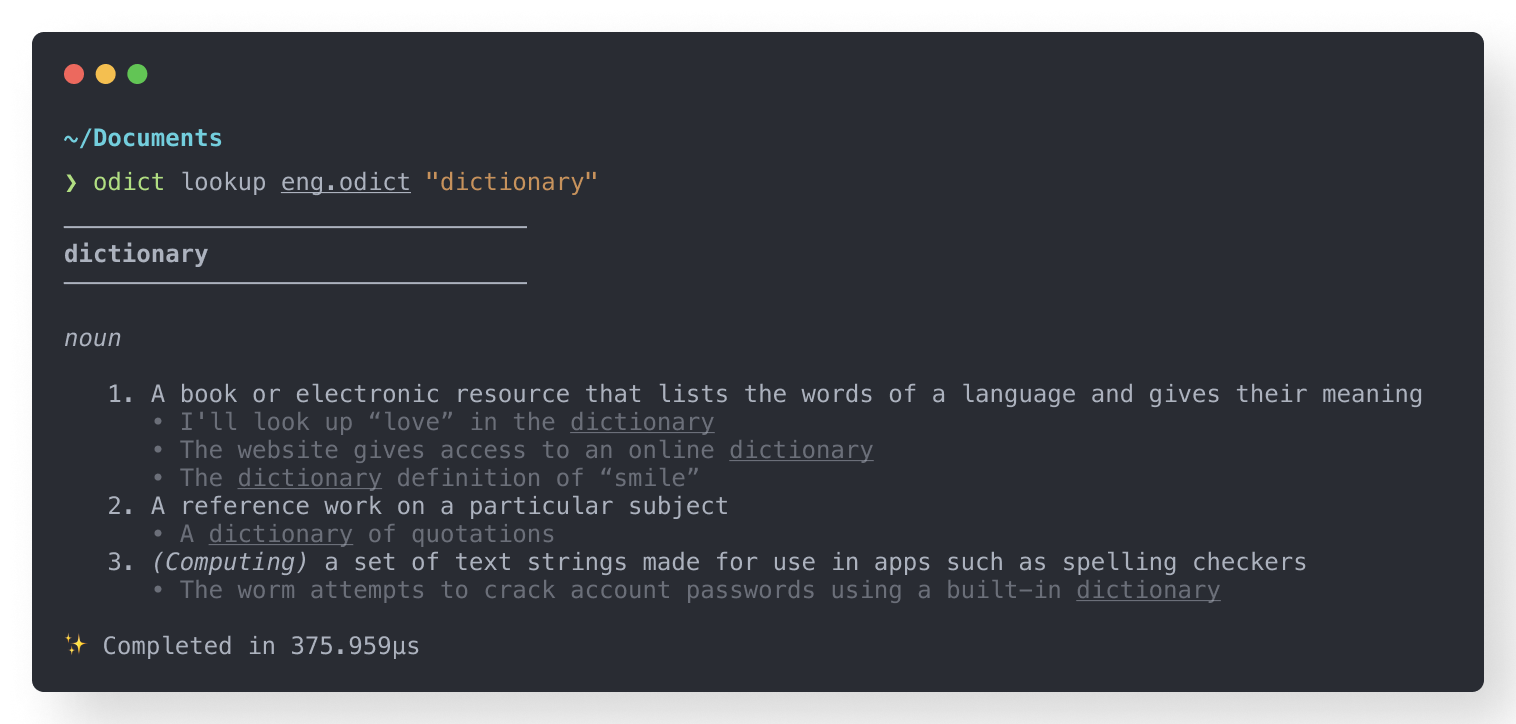
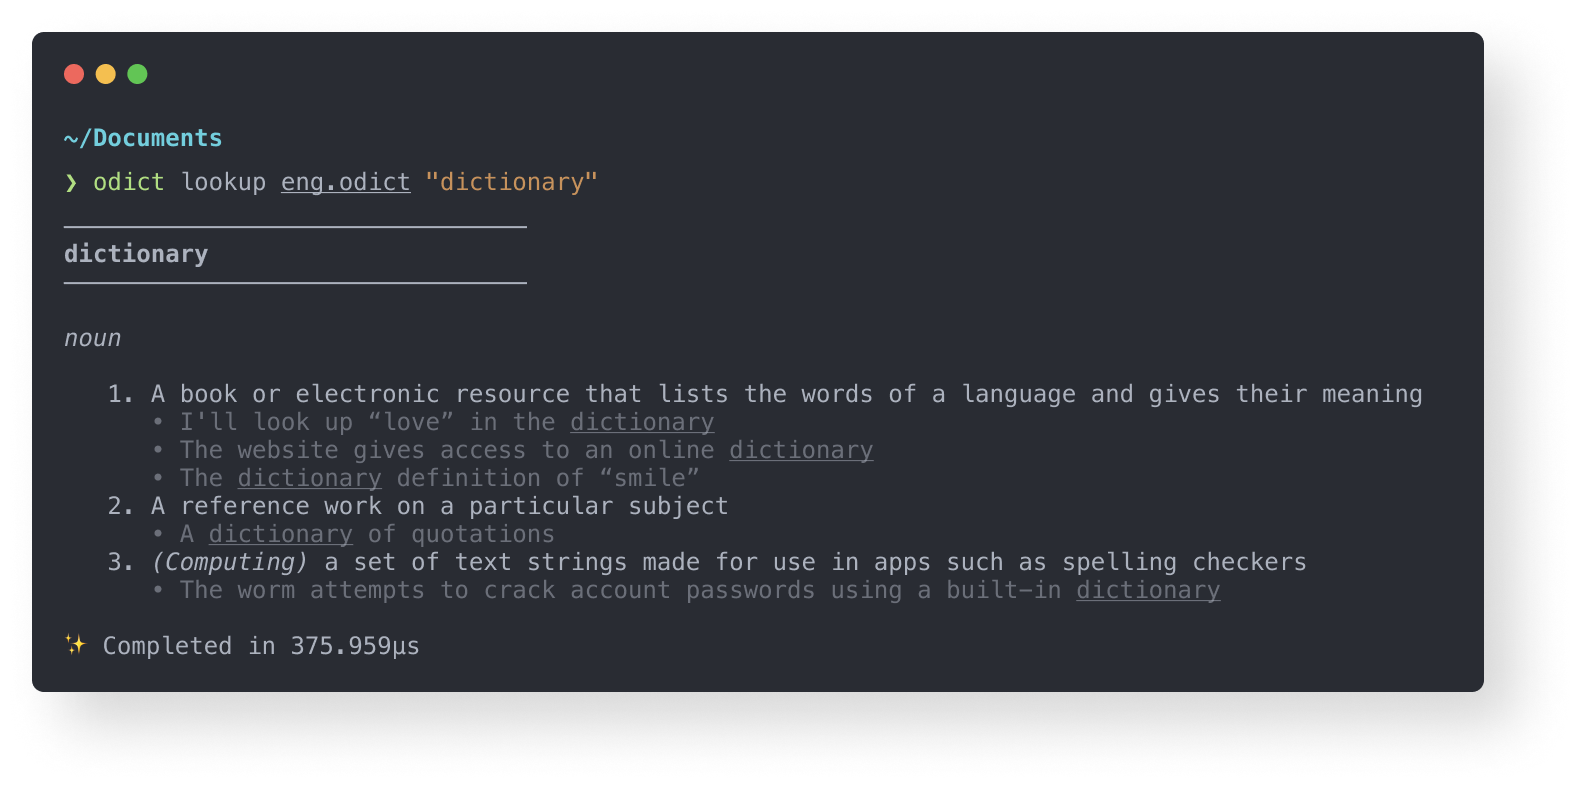
update

Changed region(s): [[0.0, 0.0304, 1.0, 1.0], [0.031, 0.1519, 0.403, 0.395]]

diff --git a/README.md b/README.md
@@ -12,7 +12,7 @@ The Open Dictionary Project (ODict for short), is an open-source alternative to 
 Open Dictionary files are converted from XML to compressed binary files that can be easily indexed, searched, and modified using the Open Dictionary [CLI tool](docs/cli.md) or via its open-source Go bindings.
 
 <div align="center">
-<img src="terminal.png" width="800" />
+<img src="terminal.png" width="1000" />
 </div>
 
 ## Motivation
